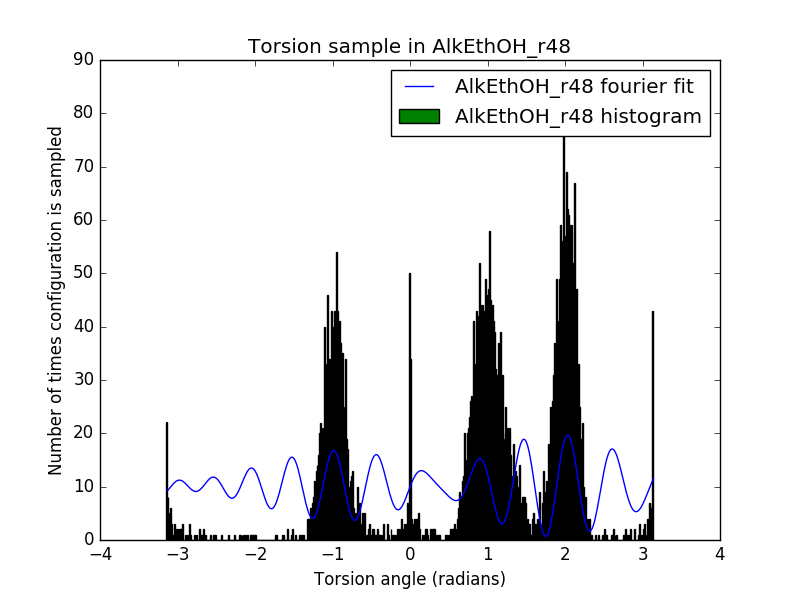
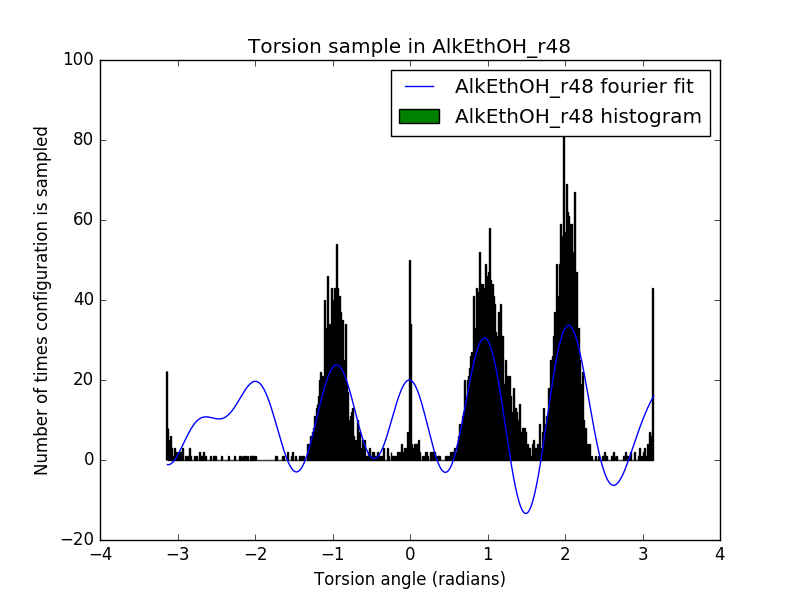
Increase periodicity

diff --git a/single-molecule-property-generation/least_squares_fit_example.py b/single-molecule-property-generation/least_squares_fit_example.py
@@ -513,7 +513,7 @@ plt.figure()
 #	if j==0.:
 #           n1[i]=5.
 
-popt, pcov = sci.curve_fit(fourier, bins1[1:], n1, [5.0,1.0,0.0]*3 , maxfev=100000)
+popt, pcov = sci.curve_fit(fourier, bins1[1:], n1, [5.0,3.0,0.0]*3 , maxfev=100000)
 plt.plot(bins1[1:],fourier(bins1[1:],*popt),label='AlkEthOH_r48 fourier fit')
 plt.ylabel('Number of times configuration is sampled')
 plt.xlabel('Torsion angle (radians)')
